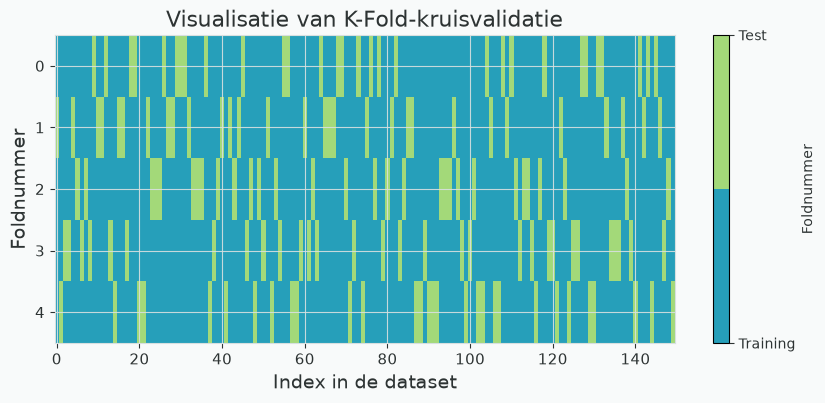
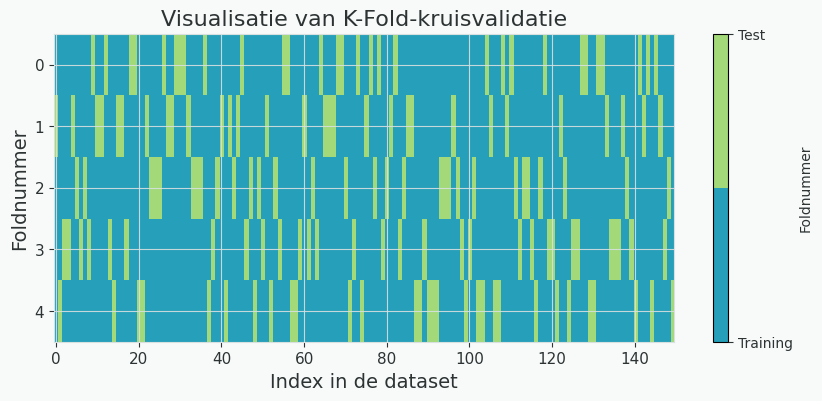
using own plot config

diff --git a/CCPlots/implementation/KFoldExample.py b/CCPlots/implementation/KFoldExample.py
@@ -1,34 +1,29 @@
-import numpy as np
+"""
+Visualises 5-fold cross-validation splits as an imshow grid, highlighting
+which samples belong to the training set (primary colour) and which to the
+test set (tertiary colour) in each fold.
+
+Figures
+-------
+- ``kfold_validation.png`` / ``_NL.png`` — fold-assignment grid
+
+Configuration
+-------------
+``CCPlots/plot_configs/kfold.json``
+"""
 import matplotlib.pyplot as plt
+import numpy as np
 from matplotlib.colors import ListedColormap
-from sklearn.model_selection import KFold
 from sklearn.datasets import make_classification
+from sklearn.model_selection import KFold as SKFold
 
 from CCPlots.PlotExample import PlotExample
-from CCPlots.config import BITROOT_PALETTE, apply_bitroot_style, output_path
+from CCPlots.config import BITROOT_PALETTE
 
 
-TEXT_BY_LOCALE = {
-    "en": {
-        "title": "Visualization of K-Fold Cross-Validation",
-        "colorbar": "Fold number",
-        "xlabel": "Index in the dataset",
-        "ylabel": "Fold number",
-        "train": "Training",
-        "test": "Test",
-    },
-    "nl": {
-        "title": "Visualisatie van K-Fold-kruisvalidatie",
-        "colorbar": "Foldnummer",
-        "xlabel": "Index in de dataset",
-        "ylabel": "Foldnummer",
-        "train": "Training",
-        "test": "Test",
-    },
-}
+class KFold(PlotExample):
 
-
-class KFoldExample(PlotExample):
+    CONFIG_KEY = "kfold"
 
     colors = [BITROOT_PALETTE['primary'], BITROOT_PALETTE['tertiary']]
 
@@ -39,7 +34,7 @@ class KFoldExample(PlotExample):
         X, _ = make_classification(n_samples=150, n_features=4, n_informative=3,
                                    n_redundant=0, random_state=42)
 
-        kf = KFold(n_splits=5, shuffle=True, random_state=42)
+        kf = SKFold(n_splits=5, shuffle=True, random_state=42)
         n_samples = len(X)
         cv_splits = np.zeros((kf.get_n_splits(), n_samples))
 
@@ -47,11 +42,8 @@ class KFoldExample(PlotExample):
             cv_splits[i, train_index] = 1
             cv_splits[i, test_index] = 2
 
-        for locale, labels in (("en", TEXT_BY_LOCALE["en"]), ("nl", TEXT_BY_LOCALE["nl"])):
-            fname = f"kfold_validation{'_NL' if locale == 'nl' else ''}.png"
-
-            fig, ax = plt.subplots(figsize=(10, 4), facecolor=BITROOT_PALETTE['background'])
-            ax.set_facecolor(BITROOT_PALETTE['background'])
+        for _locale, labels, suffix in self.iter_locales():
+            fig, ax = self.create_figure()
 
             im = ax.imshow(cv_splits, aspect='auto', cmap=self.cmap, interpolation='nearest')
 
@@ -64,10 +56,9 @@ class KFoldExample(PlotExample):
             ax.set_ylabel(labels['ylabel'], color=BITROOT_PALETTE['text'])
             ax.set_title(labels['title'], color=BITROOT_PALETTE['text'])
 
-            apply_bitroot_style(ax)
-            fig.savefig(output_path(fname), bbox_inches='tight', pad_inches=0.1)
-            plt.close(fig)
+            self.apply_style(ax)
+            self.save_figure(fig, "default", suffix=suffix)
 
 
 if __name__ == "__main__":
-    KFoldExample().main()
+    KFold().main()
